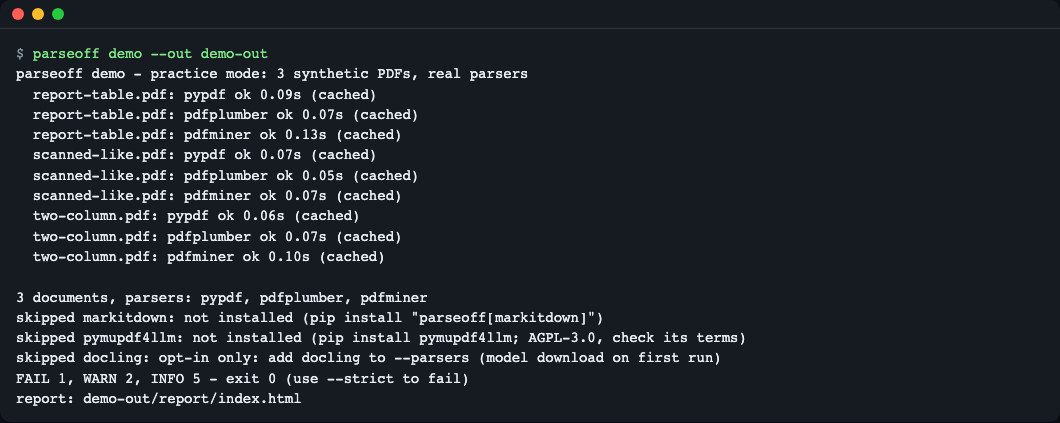
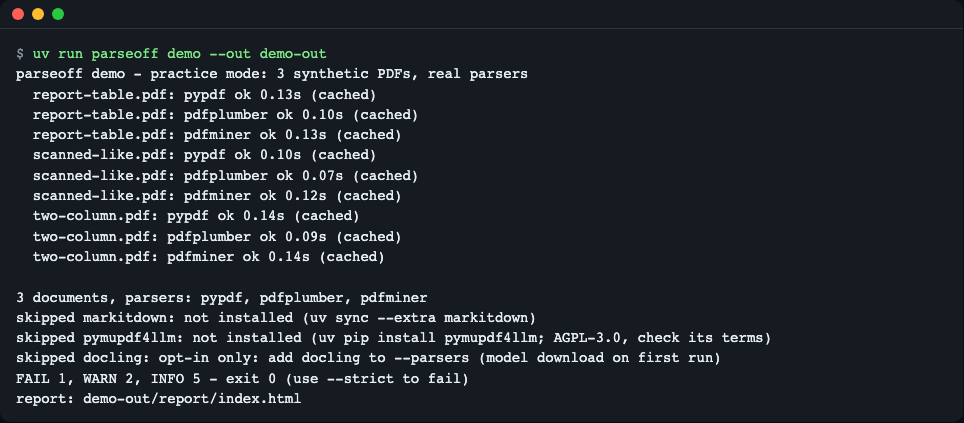
docs(readme): update install hints and screenshots
Match the new hints, note that extras synced one at a time replace each
other, and widen the test duration estimate.

diff --git a/README.md b/README.md
@@ -23,7 +23,7 @@ cd parseoff
 uv run parseoff --version
 ```
 ```text
-parseoff 0.1.0
+parseoff 0.1.1
 ```
 
 - 위 방법(clone 후 `uv run`)이 확인된 설치 방법입니다. 처음 `uv run` 을 하면 의존 패키지를 내려받습니다.
@@ -46,8 +46,8 @@ parseoff demo - practice mode: 3 synthetic PDFs, real parsers
   two-column.pdf: pdfminer ok 0.10s
 
 3 documents, parsers: pypdf, pdfplumber, pdfminer
-skipped markitdown: not installed (uv sync --extra markitdown (or pip install "parseoff[markitdown]"))
-skipped pymupdf4llm: not installed (pip install pymupdf4llm; AGPL-3.0, check its terms)
+skipped markitdown: not installed (uv sync --extra markitdown)
+skipped pymupdf4llm: not installed (uv pip install pymupdf4llm; AGPL-3.0, check its terms)
 skipped docling: opt-in only: add docling to --parsers (model download on first run)
 FAIL 1, WARN 2, INFO 5 - exit 0 (use --strict to fail)
 report: demo-out/report/index.html
@@ -199,8 +199,10 @@ report: custom-out/report/index.html
 | pdfplumber | MIT | 41 MB | 기본 포함, 표를 GFM 으로 | 필요 없음 |
 | pdfminer.six | MIT | pdfplumber 에 포함 | 기본 포함 | 필요 없음 |
 | markitdown | MIT | 147 MB (대부분 onnxruntime) | 쪽별로 나눠 변환 | `uv sync --extra markitdown` |
-| pymupdf4llm | AGPL-3.0 또는 상업 | 214 MB | 설치돼 있으면 자동 감지. **extras 에 넣지 않음** | `pip install pymupdf4llm` |
+| pymupdf4llm | AGPL-3.0 또는 상업 | 214 MB | 설치돼 있으면 자동 감지. **extras 에 넣지 않음** | `uv pip install pymupdf4llm` (`uv sync` 후 다시 설치 필요할 수 있음) |
 | docling | MIT | 측정 안 함(torch, 큼) | 실험적. `--parsers` 에 적어야만 실행, 첫 실행에 모델 다운로드 | `uv sync --extra docling` |
+
+extra 를 하나씩 따로 `uv sync --extra …` 하면 앞서 넣은 extra 가 지워집니다. 둘 이상 쓸 때는 `uv sync --extra markitdown --extra docling` 처럼 한 번에 지정하세요.
 
 pymupdf4llm 은 AGPL 이라서 parseoff 의 extras 에 넣지 않았습니다. 직접 설치하면 호출만 하며, 배지와 경고(LICENSE_COPYLEFT)가 붙습니다. 라이선스 확인은 본인 책임입니다. marker 는 모델 가중치 조건이 있어 아직 지원하지 않습니다.
 
@@ -238,6 +240,7 @@ flowchart LR
 | 커버리지가 `null` / `EMPTY_TEXT_LAYER` | 스캔·이미지뿐인 쪽(텍스트 레이어 없음) | OCR 이 필요합니다. 텍스트 파서 비교로는 해결되지 않습니다 |
 | 커버리지는 100% 인데 결과가 이상함 | 커버리지는 글자만 세고 표·순서를 못 봄 | 일치도·표 개수를 같이 보고, 리포트에서 해당 쪽을 눈으로 확인하세요 |
 | `skipped markitdown: not installed` | 선택 파서가 설치되지 않음 | 메시지에 적힌 설치 명령을 실행하세요. clone 해서 쓰는 경우 `uv sync --extra markitdown` 입니다 |
+| `skipped pymupdf4llm: not installed` | AGPL 이라 extras 에 없음 | `uv pip install pymupdf4llm` (`uv sync` 후에는 다시 설치). 라이선스는 직접 확인하세요 |
 | `skipped docling: opt-in only` | docling 은 자동 실행하지 않음 | `--parsers pypdf,pdfplumber,docling` 처럼 명시(첫 실행에 모델 다운로드) |
 | 같은 결과가 계속 나옴 | 캐시(파일·파서·버전이 같음) | `--fresh` 를 붙이세요 |
 | `cannot import module ... for custom parser` | `--custom` 모듈이 현재 폴더에 없음 | 모듈이 있는 폴더에서 실행하거나 `PARSEOFF_PATH` 를 지정하세요. 터미널에는 `mine error` 아래 줄에 원인이 나오고, 전체 문구는 `summary.md` 의 `PARSER_ERROR` 소견에 있습니다 |
@@ -249,10 +252,10 @@ flowchart LR
 uv run pytest -q
 ```
 ```text
-..........................                                               [100%]
+..............................                                           [100%]
 ```
 
-27개 테스트가 네트워크·모델 다운로드 없이, 선택 파서가 없는 상태에서 통과합니다(타임아웃 시험이 있어 10초쯤 걸립니다). 버그·제안은 이슈로 남겨 주세요. 변경 기록은 [CHANGELOG.md](CHANGELOG.md).
+30개 테스트가 네트워크·모델 다운로드 없이, 선택 파서가 없는 상태에서 통과합니다(타임아웃 시험이 있어 10~20초쯤 걸립니다). 버그·제안은 이슈로 남겨 주세요. 변경 기록은 [CHANGELOG.md](CHANGELOG.md).
 
 ## 더 알아보기
 - [pypdf](https://pypdf.readthedocs.io/) · [pdfplumber](https://github.com/jsvine/pdfplumber) · [pdfminer.six](https://github.com/pdfminer/pdfminer.six) · [markitdown](https://github.com/microsoft/markitdown) · [PyMuPDF4LLM](https://pymupdf.readthedocs.io/en/latest/pymupdf4llm/) · [docling](https://github.com/docling-project/docling) (모두 2026-11-10 확인한 공식 저장소·문서)
